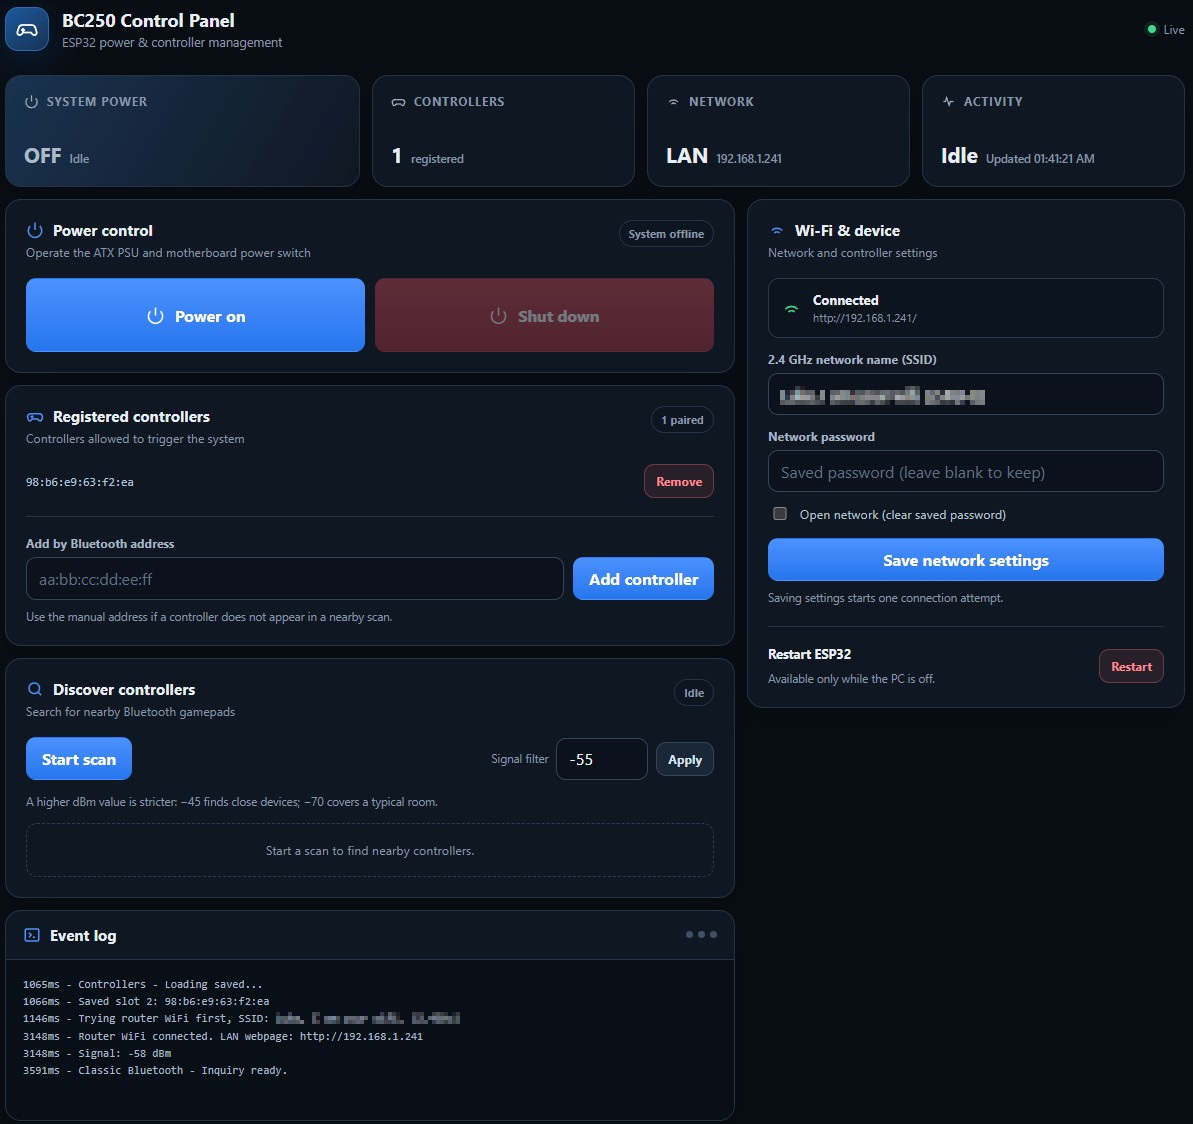
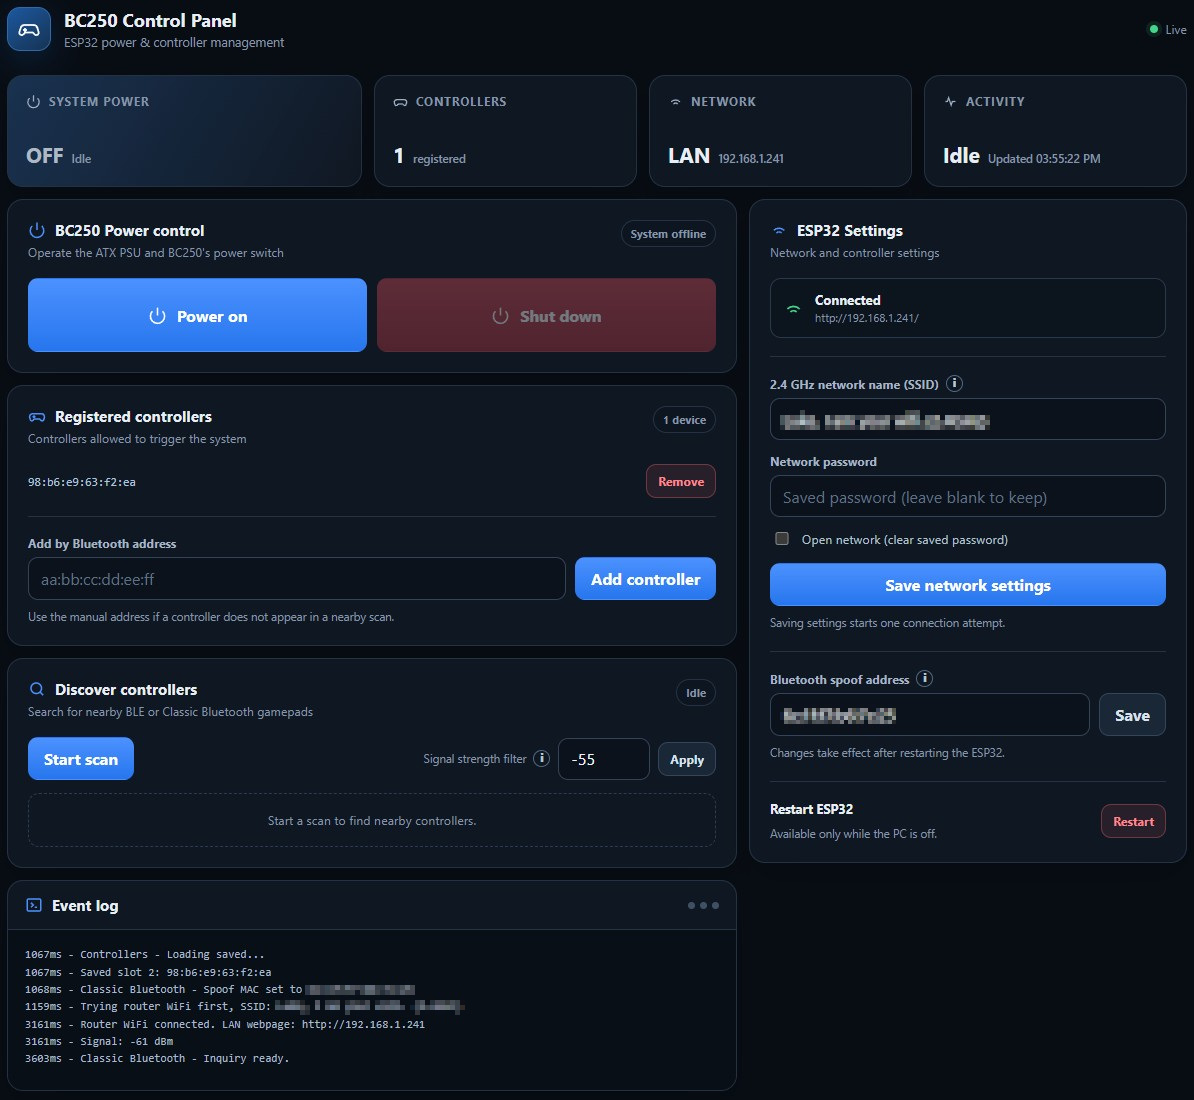
Updated README.md

diff --git a/README.md b/README.md
@@ -180,6 +180,22 @@ If the ESP32 board has no onboard USB-to-serial interface, an Arduino Nano can b
 11. Test web or physical-button power-on first, then test controller wake.
 12. Start a normal OS shutdown and confirm that `PS_ON` remains active until the monitor signal goes low.
 
+### Recommended Bluetooth Classic setup
+
+For the best compatibility with Bluetooth Classic controllers, pair each controller with the BC250 first and confirm that it works normally in the BC250 operating system. A paired Classic controller may stop advertising itself as discoverable and instead try to reconnect directly to the Bluetooth adapter address it remembers.
+
+After pairing, find the Bluetooth adapter MAC address on the BC250:
+
+  ```bash
+  bluetoothctl list
+  ```
+
+  Use the MAC address reported for the BC250 Bluetooth adapter or Bluetooth network connection.
+
+In the ESP32 web interface, enter this address under **PC Bluetooth spoof address**, select **Save**, and restart the ESP32 while the BC250 is off. This is the BC250 adapter address, not the controller address. Each controller must still be added separately to the ESP32's **Registered controllers** list.
+
+When the BC250 is off, the ESP32 temporarily uses the saved adapter address for Bluetooth Classic. This lets it detect a registered controller attempting to reconnect to the BC250 even when that controller is not discoverable through a normal inquiry. Once the BC250 turns on, the ESP32 stops answering under the spoofed address so the real BC250 Bluetooth adapter can take over. Leaving **PC Bluetooth spoof address** empty disables this behavior.
+
 ## Web interface
 
 <img src="img/webUI_mobile_AP.png" alt="BC250 ESP ATX PSU WebUI" width="300"/>
@@ -196,6 +212,7 @@ The portal provides:
 - A 15-second BLE/Bluetooth Classic scan for new devices.
 - Adjustable discovery RSSI threshold from -100 to -20 dBm.
 - Manual controller registration in `aa:bb:cc:dd:ee:ff` format.
+- Persistent PC Bluetooth adapter spoof-address configuration for paired Bluetooth Classic controllers.
 - Persistent 2.4 GHz router SSID/password configuration.
 - A guarded ESP32 restart button, enabled only while the PC is off and the power state machine is idle.
 - The latest 40 in-memory log lines.